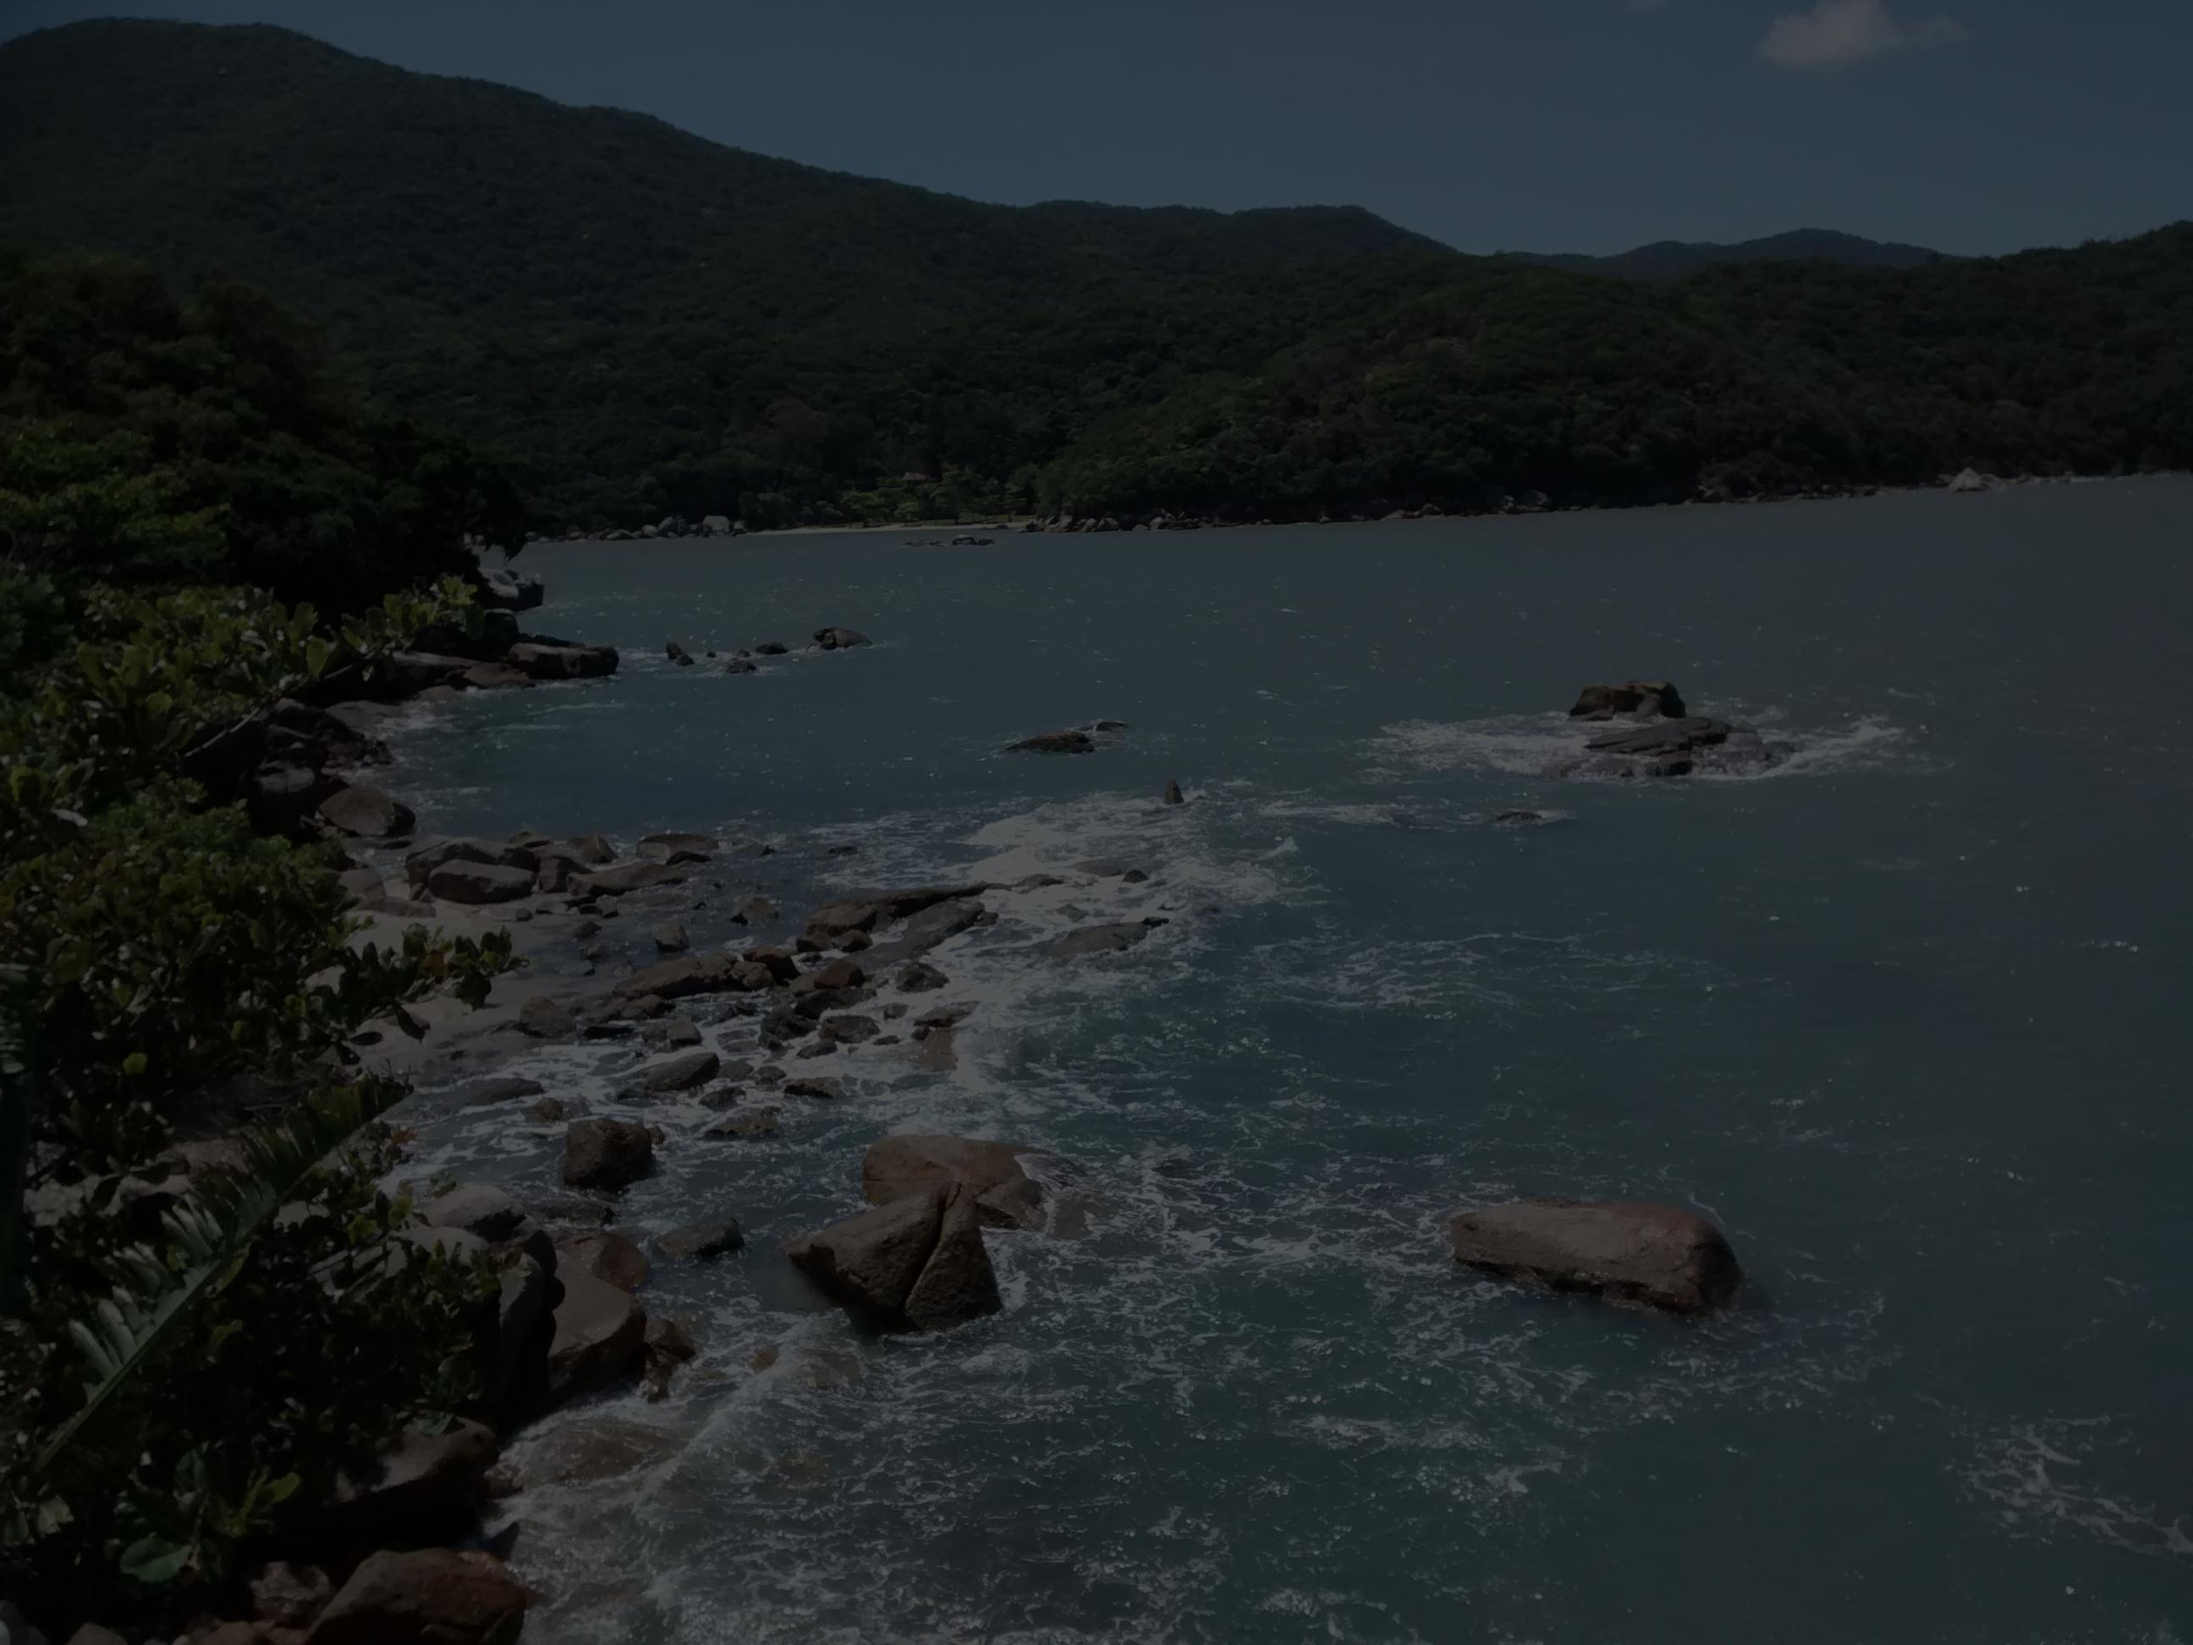
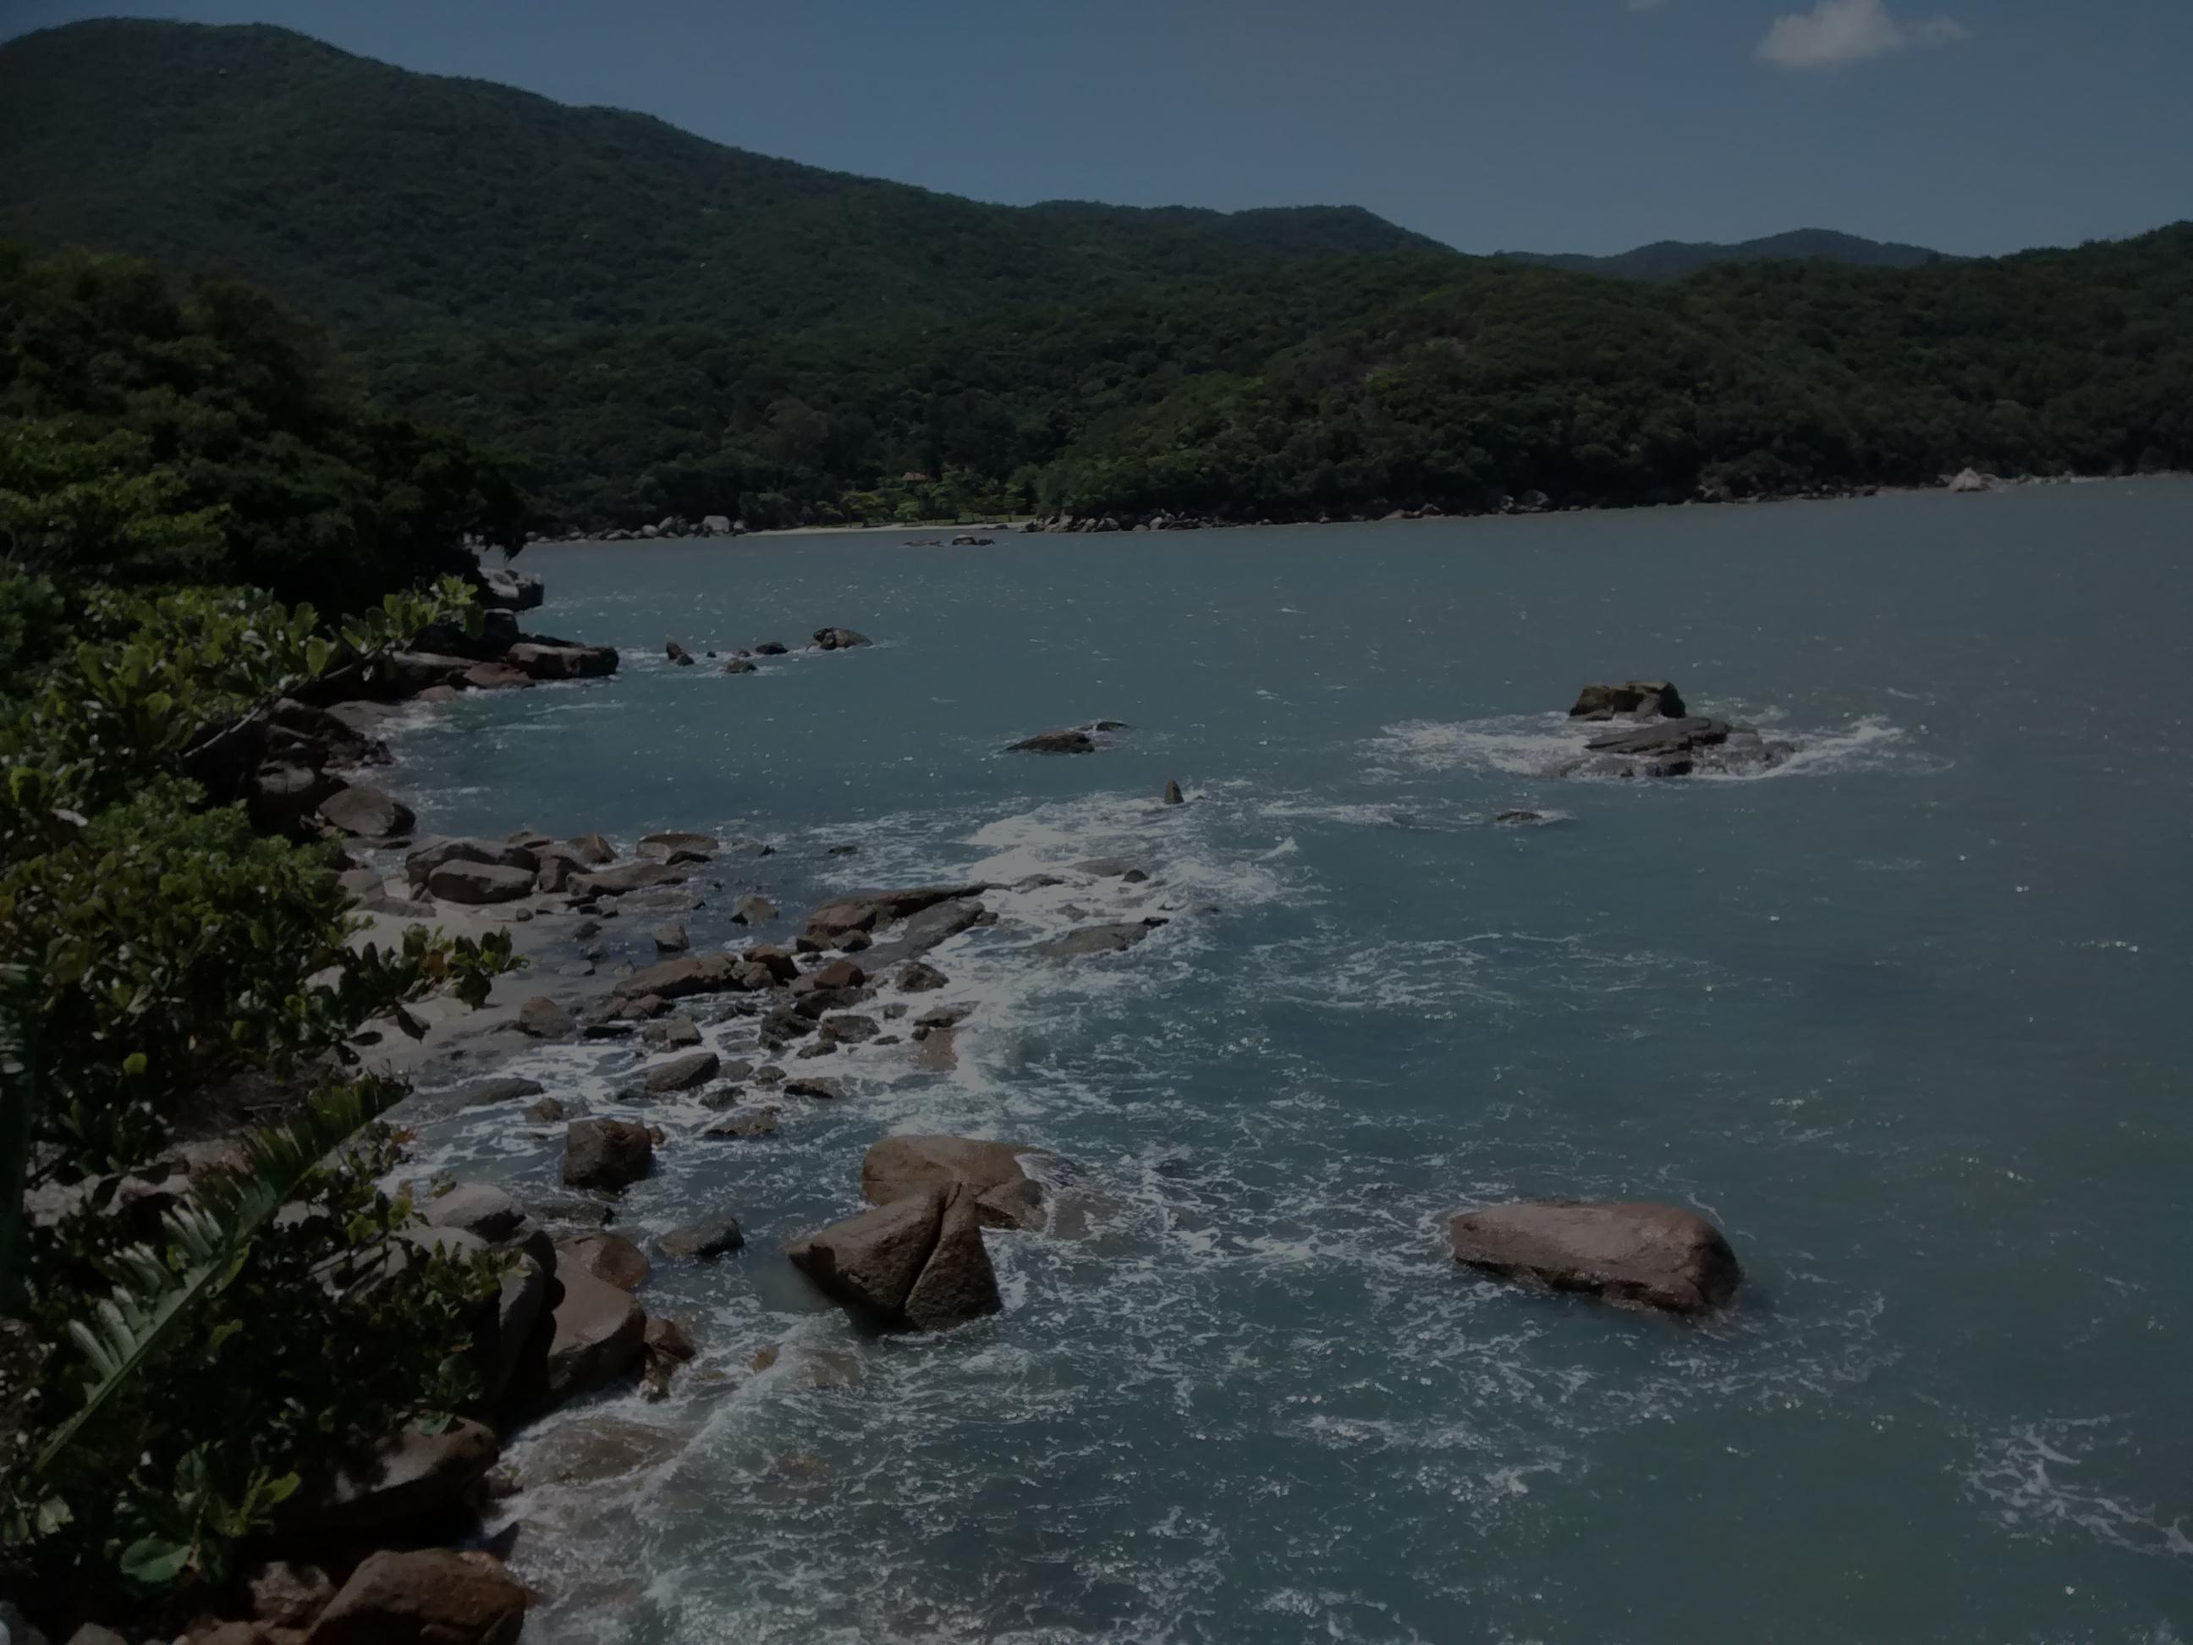
Erro na função de salvar imagem. Muda os valores da matriz de pixel

diff --git a/y.tab.c b/y.tab.c
@@ -460,7 +460,7 @@ static const yytype_uint8 yytranslate[] =
   /* YYRLINE[YYN] -- Source line where rule number YYN was defined.  */
 static const yytype_uint8 yyrline[] =
 {
-       0,    23,    23,    24,    27,    28,    35,    42,    49
+       0,    23,    23,    24,    27,    28,    35,    47,    54
 };
 #endif
 
@@ -1250,36 +1250,41 @@ yyreduce:
     	imagem I = abrir_imagem ((yyvsp[-2].strval));
     	printf ("Fator float = %f\n", atof((yyvsp[0].strval)));
     	brilho_imagem (&I, atof((yyvsp[0].strval)));
+    	vmax_imagem (&I, &vmax[0]);
+    	printf ("Valor máximo r: %.2f\nValor máximo g: %.2f\nValor máximo b: %.2f\n", vmax[0], vmax[1], vmax[2]); 
     	salvar_imagem ((yyvsp[-4].strval), &I);
+    	I = abrir_imagem ((yyvsp[-4].strval));
+    	vmax_imagem (&I, &vmax[0]);
+    	printf ("Valor máximo r: %.2f\nValor máximo g: %.2f\nValor máximo b: %.2f\n", vmax[0], vmax[1], vmax[2]);
     	liberar_imagem (&I);
     }
-#line 1257 "y.tab.c" /* yacc.c:1646  */
+#line 1262 "y.tab.c" /* yacc.c:1646  */
     break;
 
   case 7:
-#line 42 "./src/imageprocessing.y" /* yacc.c:1646  */
+#line 47 "./src/imageprocessing.y" /* yacc.c:1646  */
     {
     	imagem I = abrir_imagem ((yyvsp[-2].strval));
     	printf ("Fator float = %f\n", 1/atof((yyvsp[0].strval)));    	
-    	brilho_imagem (&I, 1/atof((yyvsp[0].strval)));
-    	salvar_imagem ((yyvsp[-4].strval), &I);
+    	brilho_imagem (&I, 1/atof((yyvsp[0].strval)));    	
+    	salvar_imagem ((yyvsp[-4].strval), &I);    	
     	liberar_imagem (&I);
     }
-#line 1269 "y.tab.c" /* yacc.c:1646  */
+#line 1274 "y.tab.c" /* yacc.c:1646  */
     break;
 
   case 8:
-#line 49 "./src/imageprocessing.y" /* yacc.c:1646  */
+#line 54 "./src/imageprocessing.y" /* yacc.c:1646  */
     {
     	imagem I = abrir_imagem ((yyvsp[-1].strval));
     	vmax_imagem (&I, &vmax[0]);
     	printf ("Valor máximo r: %.2f\nValor máximo g: %.2f\nValor máximo b: %.2f\n", vmax[0], vmax[1], vmax[2]);
     }
-#line 1279 "y.tab.c" /* yacc.c:1646  */
+#line 1284 "y.tab.c" /* yacc.c:1646  */
     break;
 
 
-#line 1283 "y.tab.c" /* yacc.c:1646  */
+#line 1288 "y.tab.c" /* yacc.c:1646  */
       default: break;
     }
   /* User semantic actions sometimes alter yychar, and that requires
@@ -1507,7 +1512,7 @@ yyreturn:
 #endif
   return yyresult;
 }
-#line 57 "./src/imageprocessing.y" /* yacc.c:1906  */
+#line 62 "./src/imageprocessing.y" /* yacc.c:1906  */
 
 
 void yyerror(char *s) {

diff --git a/src/lib_imageprocessing.c b/src/lib_imageprocessing.c
@@ -69,9 +69,9 @@ void salvar_imagem(char *nome_do_arquivo, imagem *I) {
       int idx;
 
       idx = i + (j*I->width);
-      color.rgbRed = I->r[idx];
-      color.rgbGreen = I->g[idx];
-      color.rgbBlue = I->b[idx];
+      color.rgbRed = (float)I->r[idx];
+      color.rgbGreen = (float)I->g[idx];
+      color.rgbBlue = (float)I->b[idx];
 
       FreeImage_SetPixelColor(bitmapOut, i, j, &color);
     }
@@ -89,7 +89,7 @@ void brilho_imagem (imagem *I, float fator) {
 			idx = i + (j*I->width);
 			I->r[idx] = I->r[idx] * fator;
 			I->g[idx] = I->g[idx] * fator;
-			I->b[idx] = I->b[idx] * fator;
+			I->b[idx] = I->b[idx] * fator;			
 		}
 	}
 }
@@ -97,22 +97,37 @@ void brilho_imagem (imagem *I, float fator) {
 void vmax_imagem (imagem *I, float vmax[3]){
 
 	int i, j, idx;
-	vmax[0] = 0; 
-	vmax[1] = 0;
-	vmax[2] = 0;
+	vmax[0] = 0.0; 
+	vmax[1] = 0.0;
+	vmax[2] = 0.0;
 	
 	for (i=0; i<I->width; i++) {
 		for (j=0; j<I->height; j++){
-			idx = i + (j*I->width);
-			if (I->r[idx] > vmax[0]){
+			idx = i + (j*I->width);			
+			if (I->r[idx] >= vmax[0]){
 				vmax[0] = I->r[idx];
 			}
-			if (I->g[idx] > vmax[1]){
+			if (I->g[idx] >= vmax[1]){
 				vmax[1] = I->g[idx];
 			}
-			if (I->b[idx] > vmax[2]){
+			if (I->b[idx] >= vmax[2]){
 				vmax[2] = I->b[idx];
-			}
+			}			
 		}
 	}	
+}
+
+void imprime (imagem *I){
+
+	int i, j, idx;
+
+	for (i=0; i<I->width; i++) {
+		for (j=0; j<I->height; j++){
+			idx = i + (j*I->width);			
+			if (I->r[idx] - (int)I->r[idx] != 0 | I->g[idx] - (int)I->g[idx] != 0 | I->b[idx] - (int)I->b[idx] != 0){
+				printf ("%f %f %f\n", I->r[idx], I->g[idx], I->b[idx]);
+			}			
+		}
+	}
+	printf ("fim de impressão\n");
 }

diff --git a/src/imageprocessing.h b/src/imageprocessing.h
@@ -13,5 +13,6 @@ void salvar_imagem(char *nome_do_arquivo, imagem *I);
 void liberar_imagem(imagem *i);
 void brilho_imagem (imagem *I, float fator);
 void vmax_imagem (imagem *I, float vmax[3]);
+void imprime (imagem *I);
 
 #endif
